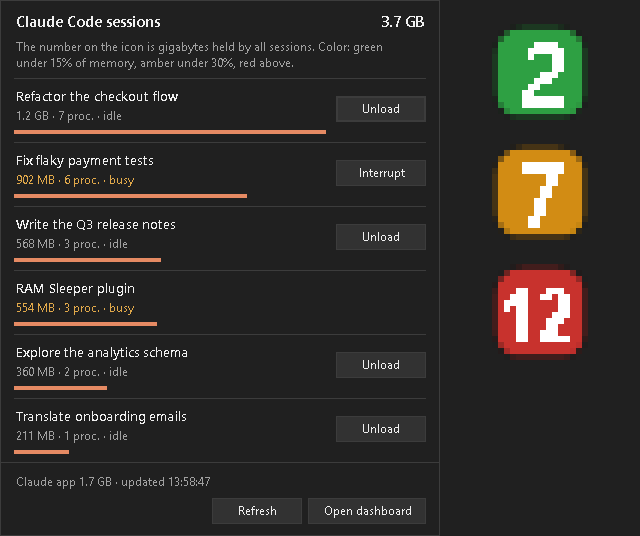
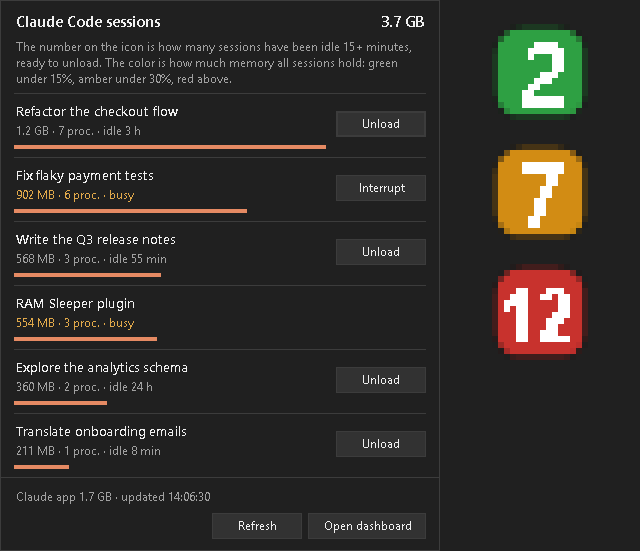
Linux smoke test, zombie fix, tray counts idle sessions
- tests/smoke.mjs runs every command against fake sessions in a temporary
  CLAUDE_CONFIG_DIR on macOS and Linux; it passes on Debian 12 / Node 20
  in Docker.
- It caught a real bug: a session that exited on SIGINT stayed a zombie
  until its parent reaped it, and was reported as not stopped. Zombies now
  count as stopped.
- The tray icon now shows how many sessions have been idle 15+ minutes
  instead of gigabytes; color still shows memory share, the tooltip has the
  figures, and popup rows show how long each session has been idle. The menu
  bar title shows the same count.
- README: platform table reflects what was tested where.

diff --git a/skills/ramsleeper/scripts/dashboard.html b/skills/ramsleeper/scripts/dashboard.html
@@ -164,7 +164,7 @@ Object.assign(T, RU ? {
   cmdHint: 'Или просто спросите Claude: «какая сессия ест больше всего памяти?», «выгрузи те, что простаивают с утра».',
   cmds: [['/ramsleeper:sessions', 'список сессий с памятью'], ['/ramsleeper:sessions unload 3', 'выгрузить сессию из строки 3, с подтверждением'],
     ['/ramsleeper:dashboard', 'эта панель'], ['/ramsleeper:tray', 'значок в трее или строке меню'], ['/ramsleeper:setup', 'эта страница настройки']],
-  trayTitle: 'Значок в трее Windows', trayOn: 'Запущен. Цифра — занятые сессиями гигабайты, цвет — доля от всей памяти.',
+  trayTitle: 'Значок в трее Windows', trayOn: 'Запущен. Цифра — сколько сессий простаивает 15+ минут, цвет — сколько памяти занимают все сессии.',
   trayOff: 'Не запущен. Клик по значку открывает список сессий с кнопками выгрузки.', trayStart: 'Запустить',
   autoTitle: 'Запуск при входе в Windows', autoOn: 'Включён: значок появится сам после перезагрузки.', autoOff: 'Выключен.',
   autoEnable: 'Включить', autoDisable: 'Выключить',
@@ -188,7 +188,7 @@ Object.assign(T, RU ? {
   cmdHint: 'Or just ask Claude, for example "which session uses the most memory?" or "unload the ones idle since this morning".',
   cmds: [['/ramsleeper:sessions', 'list sessions with their memory'], ['/ramsleeper:sessions unload 3', 'unload the session on row 3, after you confirm'],
     ['/ramsleeper:dashboard', 'this dashboard'], ['/ramsleeper:tray', 'tray or menu bar icon'], ['/ramsleeper:setup', 'this setup page']],
-  trayTitle: 'Windows tray icon', trayOn: 'Running. The number is gigabytes held by sessions; the color is their share of all memory.',
+  trayTitle: 'Windows tray icon', trayOn: 'Running. The number is how many sessions have been idle 15+ minutes; the color is how much memory all sessions hold.',
   trayOff: 'Not running. Clicking the icon opens the session list with Unload buttons.', trayStart: 'Start',
   autoTitle: 'Start at Windows sign-in', autoOn: 'On: the icon comes back by itself after a restart.', autoOff: 'Off.',
   autoEnable: 'Turn on', autoDisable: 'Turn off',

diff --git a/README.md b/README.md
@@ -27,7 +27,7 @@ In the Claude desktop app the list appears as a card in the chat. Its buttons as
 
 ![Chat card with memory per session and Unload buttons](docs/images/chat-widget.png)
 
-The Windows tray icon shows the whole gigabytes held by all sessions. Its color shows their share of your RAM: green below 15 %, amber below 30 %, red above. Click it for the list:
+The number on the Windows tray icon is how many sessions have been idle for 15 minutes or more, which are the ones worth unloading. The color shows how much of your RAM all sessions hold: green below 15 %, amber below 30 %, red above. Hover over the icon for the exact figures, or click it for the list:
 
 ![Tray popup with the session list, and the tray icon in green, amber, and red](docs/images/tray-popup.png)
 
@@ -69,22 +69,25 @@ Then run `/ramsleeper:setup`. To try it without installing, start Claude Code wi
 
 | | Windows 10/11 | macOS | Linux |
 |---|---|---|---|
-| Session list and memory | ✅ tested | ⚠ untested | ⚠ untested |
-| Unload and resume in the Claude desktop app | ✅ tested | ⚠ untested | not applicable |
-| Unload and resume for terminal sessions | ✅ same code path | ⚠ untested | ⚠ untested |
-| Dashboard | ✅ tested | ⚠ untested | ⚠ untested |
-| Tray or menu bar | ✅ tray icon | ⚠ xbar or SwiftBar, untested | ⚠ Argos (GNOME) or Kargos (KDE), untested |
+| Session list and memory | ✅ tested | ⚠ untested | 🧪 smoke test passes |
+| Unload (graceful, then forced) | ✅ tested | ⚠ untested | 🧪 smoke test passes |
+| Resume in the Claude desktop app | ✅ tested | ⚠ untested | not applicable |
+| Dashboard | ✅ tested | ⚠ untested | 🧪 smoke test passes |
+| Tray or menu bar | ✅ tray icon | ⚠ xbar or SwiftBar, untested | 🧪 menu output passes; ⚠ Argos or Kargos and dialogs untested |
 
-Tested on Windows 11 with Claude desktop 2.16120 and Claude Code 2.1.284. A session unloaded this way came back on its next message, with a new process resuming the same session ID and the whole conversation.
+**✅ tested** on Windows 11 with Claude desktop 2.16120 and Claude Code 2.1.284 against real sessions. A session unloaded this way came back on its next message, with a new process resuming the same session ID and the whole conversation.
+
+**🧪 smoke test passes** means `tests/smoke.mjs` passes on Debian 12 with Node 20 in Docker. The test uses fake sessions; nothing was tried on a Linux desktop with real Claude Code sessions. On Linux, `ps` must come from procps, which desktop distributions ship; BusyBox `ps` is not enough.
 
 ### Help wanted: macOS and Linux testers
 
-The macOS and Linux code is written to the same rules as the Windows code, but it has never run on a real Mac or Linux machine. If you can try it, please open an issue with your OS and version and what happened for each of these:
+The macOS code has never run on a Mac, and the Linux code has only passed an automated test in a container. If you can try it, please open an issue with your OS and version and what happened for each of these:
 
-1. `node skills/ramsleeper/scripts/sessions.mjs list` shows your sessions with plausible memory figures.
-2. `node skills/ramsleeper/scripts/sessions.mjs unload <pid>` previews the right processes. Run it with `--yes` on a throwaway session, then resume that session.
-3. The menu bar item appears through xbar, SwiftBar, Argos, or Kargos (see below), and its Unload item asks for confirmation.
-4. `/ramsleeper:dashboard` opens and refreshes.
+1. `node tests/smoke.mjs` passes. It starts fake sessions in a temporary folder and never touches real ones; paste its output.
+2. `node skills/ramsleeper/scripts/sessions.mjs list` shows your sessions with plausible memory figures.
+3. `node skills/ramsleeper/scripts/sessions.mjs unload <pid>` previews the right processes. Run it with `--yes` on a throwaway session, then resume that session.
+4. The menu bar item appears through xbar, SwiftBar, Argos, or Kargos (see below), and its Unload item asks for confirmation.
+5. `/ramsleeper:dashboard` opens and refreshes.
 
 `RAMSLEEPER_DEMO=1` shows made-up sessions, so you can check the interface without touching real ones.
 

diff --git a/commands/tray.md b/commands/tray.md
@@ -8,7 +8,7 @@ On Windows, start the tray icon so it keeps running after this session ends:
 powershell.exe -NoProfile -Command "Start-Process powershell.exe -WindowStyle Hidden -ArgumentList '-NoProfile','-STA','-WindowStyle','Hidden','-ExecutionPolicy','Bypass','-File','\"${CLAUDE_PLUGIN_ROOT}/companion/windows-tray/ramsleeper-tray.ps1\"'"
 ```
 
-A second copy exits by itself, so running this again is harmless. Tell the user: the icon shows whole gigabytes held by all Claude Code sessions (green, amber, red by share of RAM); left-click lists the sessions with Unload buttons; right-click has "Start at Windows sign-in". After a plugin update, that option should be switched off and on again so it points at the new version.
+A second copy exits by itself, so running this again is harmless. Tell the user: the number on the icon is how many sessions have been idle 15+ minutes, and its color is how much of the RAM all Claude Code sessions hold (green, amber, red); hovering shows the exact figures; left-click lists the sessions with Unload buttons; right-click has "Start at Windows sign-in". After a plugin update, that option should be switched off and on again so it points at the new version.
 
 On macOS or Linux, don't run anything. Explain that the menu bar item needs xbar or SwiftBar (macOS), or Argos (GNOME) or Kargos (KDE), and give this command to link it, with the plugin folder of the app they use:
 
